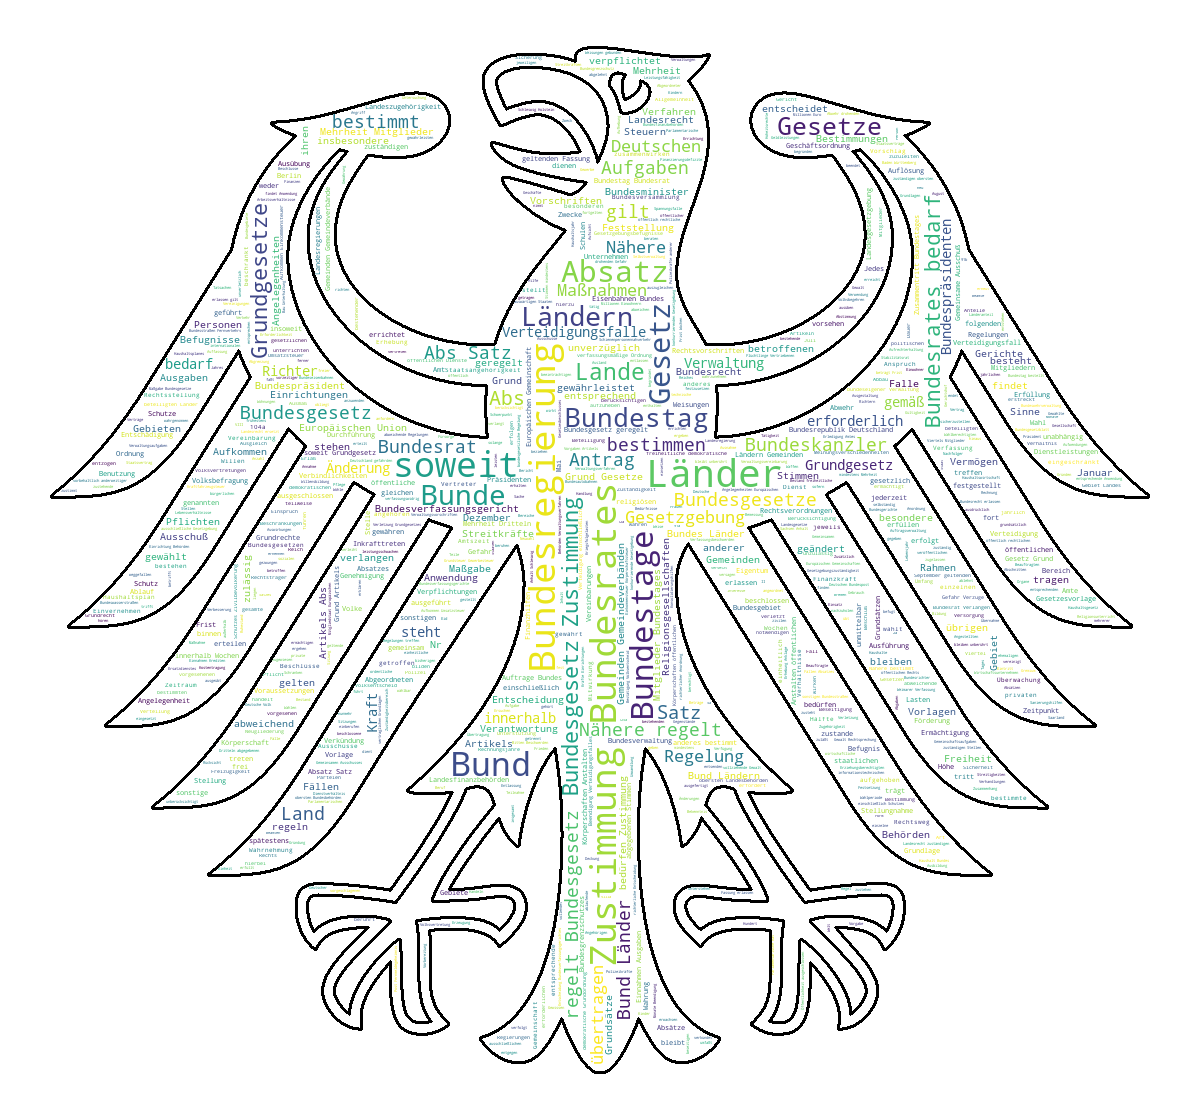
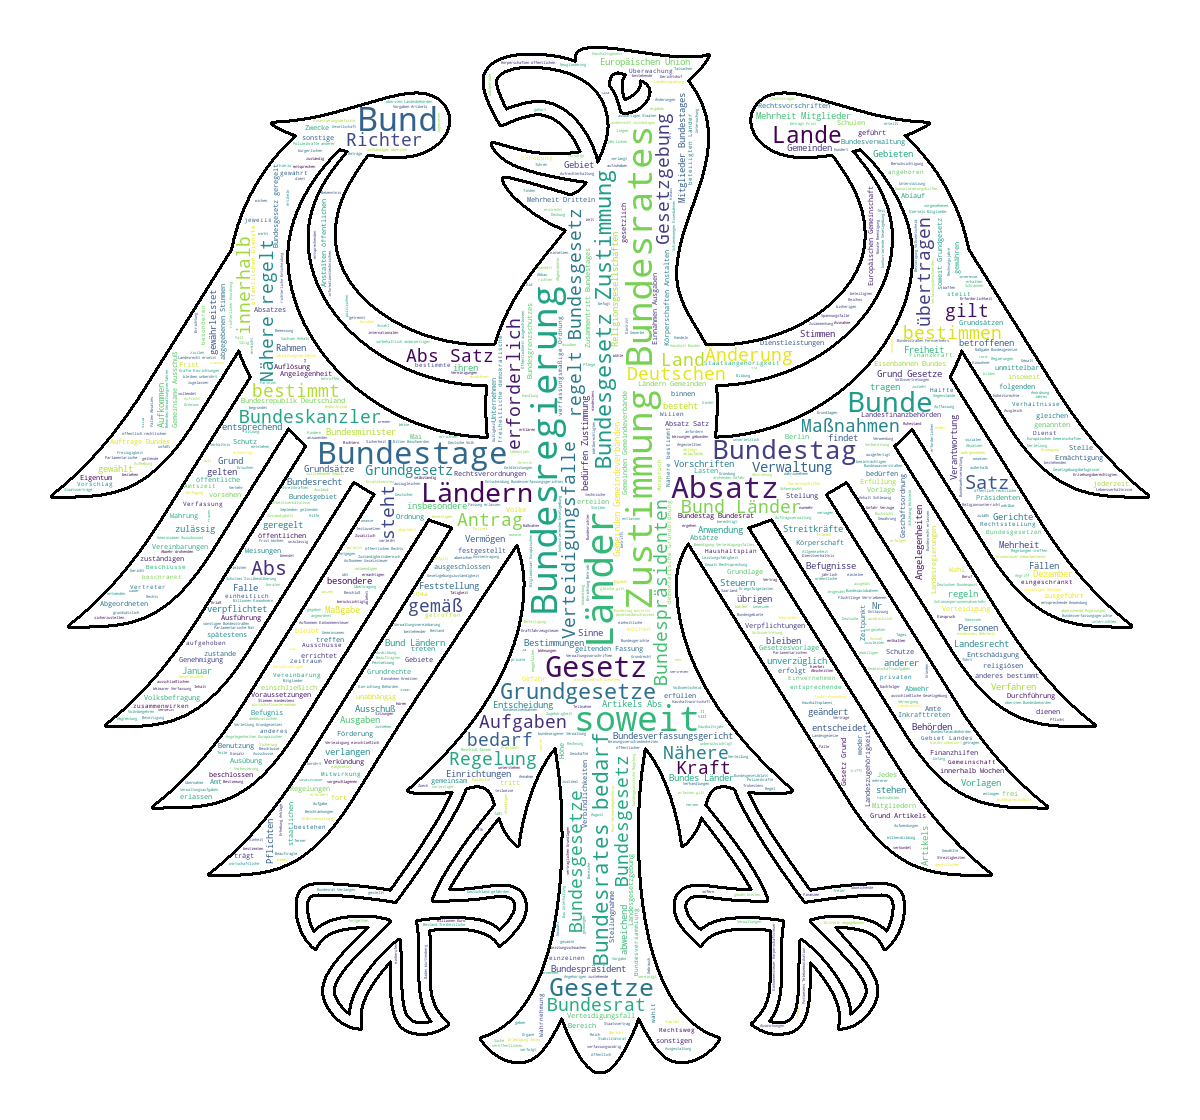
Update 2021-02-26

Changed region(s): [[0.0617, 0.0312, 0.9558, 0.9688], [0.8633, 0.625, 0.8942, 0.6562], [0.3083, 0.2812, 0.3392, 0.3125]]

diff --git a/Grundgesetz.py b/Grundgesetz.py
@@ -3,35 +3,67 @@ from PIL import Image
 import numpy as np
 import matplotlib.pyplot as plt
 import os
+import spacy
 from spacy.lang.de.stop_words import STOP_WORDS
+
 
 from wordcloud import WordCloud
 
 # get data directory (using getcwd() is needed to support running example in generated IPython notebook)
 d = path.dirname(__file__) if "__file__" in locals() else os.getcwd()
 
+nlp = spacy.load('de_core_news_sm')
+
 # Read the whole text.
-text = open(path.join(d, 'Grundgesetz.txt')).read()
+text = open(path.join(d, 'Grundrechte.txt')).read()
 
-# read the mask image
-eagle_mask = np.array(Image.open(path.join(d, "Eagle.png")))
+text = nlp(text)
 
+processed_text = ''
+
+for word in text:
+    processed_text += (word.lemma_ +' ')
+    
 stopwords = set(STOP_WORDS)
 stopwords.add("Artikel")
+stopwords.add("Abs")
+stopwords.add("Satz")
 
-wc = WordCloud(background_color="white", max_words=3000, mask=eagle_mask,
-               stopwords=stopwords, contour_width=3, contour_color='black')
 
-# generate word cloud
-wc.generate(text)
+def multi_color_func(word=None, font_size=None,
+                     position=None, orientation=None,
+                     font_path=None, random_state=None):
+    colors = [[0, 97, 45],
+              [33, 100, 50],
+              [56, 100, 50],
+              [138, 100, 25],
+              [222, 100, 50],
+              [292, 90, 28],
+              # [0, 0, 0],
+              # [35, 68, 28],
+              # [197, 94, 67],
+              # [348, 79, 81]
+              ]
+    rand = random_state.randint(0, len(colors) - 1)
+    return "hsl({}, {}%, {}%)".format(colors[rand][0], colors[rand][1], colors[rand][2])
 
-# store to file
-wc.to_file(path.join(d, "Grundgesetz.png"))
+mask = np.array(Image.open(path.join(d, "Germany.png")))
 
-# show
-plt.imshow(wc, interpolation='bilinear')
-plt.axis("off")
-plt.figure()
-plt.imshow(eagle_mask, cmap=plt.cm.gray, interpolation='bilinear')
+
+font_path = 'C:/Users/joshu/Documents/Languages/Tools/Fonts/lemon_milk/LEMONMILK-Regular.otf'
+
+wc = WordCloud(background_color="white", max_words=3000, mask=mask, 
+               font_path=font_path, stopwords=stopwords,
+               max_font_size=256, random_state=42,
+               color_func=multi_color_func, contour_color='gray', contour_width=1)
+
+
+wc.generate(processed_text)
+
+
+wc.to_file(path.join(d, "Grundgesetz1.png"))
+
+
+plt.imshow(wc, interpolation="bilinear")
 plt.axis("off")
 plt.show()
